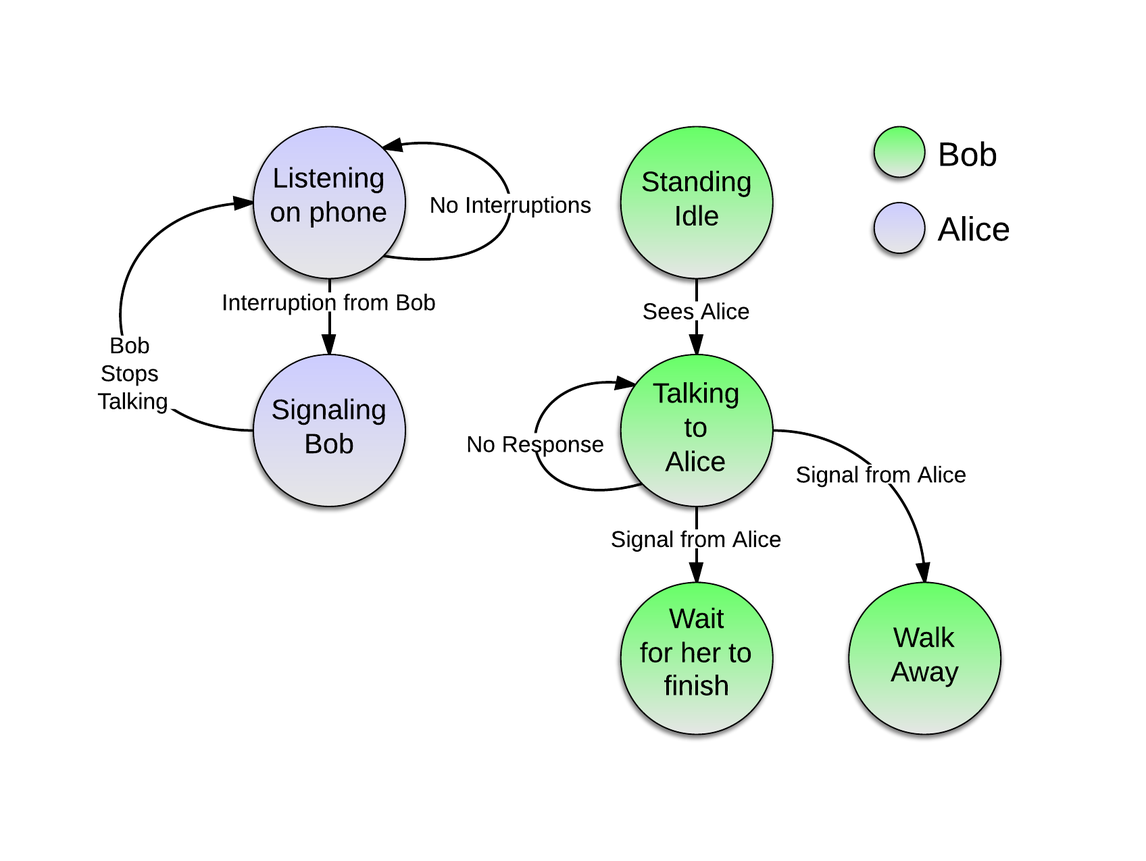
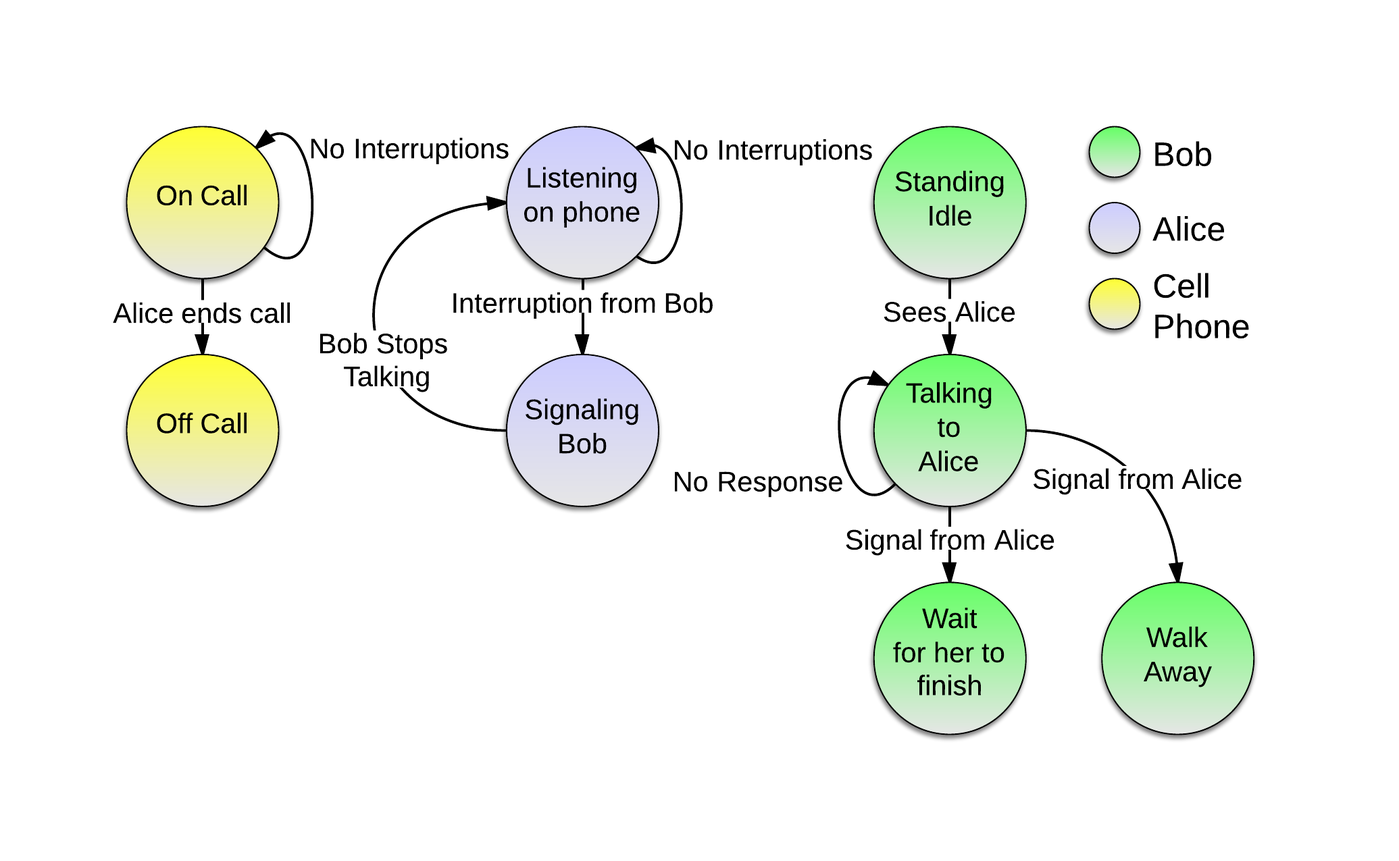
Move changes to workload chapter

Changed region(s): [[0.0625, 0.1224, 0.9062, 0.8565]]

diff --git a/chapter_workload.tex b/chapter_workload.tex
@@ -1,15 +1,14 @@
 \chapter{Workload Metrics} \label{ch:workload}
+The paper presented in chapter 2 was written before the workload concepts and modeling language semantics had settled into their current form.  Jared et al. \cite{FVHMS}, in concert with this work, published a paper in the FVHMS proceedings that expands on the concepts in chapter 2 but is also slightly outdated.  Thus we feel it expedient to summarize those aspects of the language which are critical to our metrics before we present the metrics themselves.  To assist in this effort we have prepared a simple scenario which includes a partial model and illustrations of the DiRG, DiTG, and labeled state transition system.
 
-The paper presented in chapter 2 was written before the workload concepts and modeling language semantics had settled into their current form.  Additionally, Jared et al., in concert with this work, published a paper in the FVHMS proceedings that expands on the concepts in chapter 2 but is also slightly outdated.  Thus we feel it expedient to summarize those aspects of the language which are critical to our metrics before we present the metrics themselves.  To assist in this effort we have prepared a simple scenario which includes a partial model and illustrations of the DiRG, DiTG, and labeled state transition system.
+\section{Example Scenario}
+In this scenario there are two people, Alice and Bob.  Alice is standing next to Bob listening to a friend on her cell phone.  Bob suddenly remembers that he wants to ask Alice out.  Not noticing that Alice is listening to her phone Bob starts to ask Alice on a date.  When this happens Alice looks at Bob and points to her phone, signaling to him that she is on the phone.  Bob stops talking and decides between waiting for her to finish or walking away.  Eventually Bob walks away.
 
-\section{Summary of workload concepts}
-Show the labeled state transition system and talk about how it represents the scenario.
+\subsection{Actors}
+From the scenario above we chose to create three Actors: A) Alice, B) Bob, and C) Cell Phone.  Actors represent any aspect of the system that has state.  An Actor can be anything, in our example we have two humans and a cell phone.  We could also create a sub-Actor which is part of a larger Actor, such as Bob's hair, and give it states like messy or combed.  Actors can also be very abstract or very detailed.  The more states an Actor contains, the more expressive it becomes.
 
-\subsection{Example Scenario}
-
-In this scenario there are two main actors, Alice and Bob.  Alice is standing next to Bob listening to a friend on her cell phone.  Bob suddenly remembers that he wants to ask Alice out.  Not noticing that Alice is listening to her phone Bob starts to ask Alice on a date.  After listening to both her phone and Bob for a minute Alice looks at Bob and points to her phone.  Bob stops talking and decides between waiting for her to finish or walking away.  Eventually Bob walks away.
-
-From the scenario above we chose to create two Actors, Alice and Bob.  Actors represent any aspect of the system that has state.  While in this scenario both our Actors are human, an Actor can be anything.  For example we could add lighting to the scenario and give it a light and a dark state.  We could also create a sub-Actor which is part of a larger Actor, such as Bob's hair, and give it states like messy or combed.  Actors can also be very abstract or very detailed.  The more states an Actor contains, the more expressive it becomes.
+\subsection{DiRG}
+We express an Actor as a Directed Role Graph (DiRG).  A DiRG represents how an Actor is allowed to flow between states.  Figure~\ref{fig:ab_dirg} shows the DiRGs for both Alice and Bob as a state transition system.  We see that Alice is initially in a {\em Listening on phone} state while Bob is in the {\em Standing idle} state.  Alice can either stay in the {\em Listening on phone} state, shown by the looping transition, or move into the {\em Signaling Bob} state.  Once in the {\em Signaling Bob} state her only choice is to stay there forever or to return to the {\em Listening on phone} state.  Individually these DiRGs are of little value, together they begin to express the larger system.  We see from the labels on the DiRG that Alice and Bob are interacting with one another and influencing the transitions of the other.  Before we discuss Actor transitions we must first define the inter-Actor relationship that allows Actors to influence one another.
 
 \begin{figure}[h]
 \begin{center}
@@ -19,12 +18,13 @@ From the scenario above we chose to create two Actors, Alice and Bob.  Actors re
 \end{center}
 \end{figure}
 
-We express an Actor as a Directed Role Graph (DiRG).  A DiRG represents how an Actor is allowed to flow between states.  Figure~\ref{fig:ab_dirg} shows the DiRGs for both Alice and Bob as finite state machines.  We see that Alice is initially in a {\em Listening on phone} state while Bob is in the {\em Standing idle} state.  Alice can either stay in the {\em Listening on phone} state, shown by the looping transition, or move into the {\em Signaling Bob} state.  Once in the {\em Signaling Bob} state her only choice is to stay there forever or to return to the {\em Listening on phone} state.  Individually these DiRGs are of little value, together they begin to express the larger system.  We see from the labels on the DiRG that Alice and Bob are interacting with one another and influencing the transitions of the other.  Before we discuss Actor transitions we must first define the inter-Actor relationship that allows Actors to influence one another.
+\subsection{Channels}
+We define these inter-Actor connections as Channels.  A channel is a uni-directional communication medium which allows an Actor to send information to another Actor.  Each Channel is composed of a source Actor, a target Actor, and a type.  The source Actor sends information as {\em output}, the target Actor receives the information as {\em input}, and the type specifies which communication medium is being used.  In the case of Alice and Bob we use audio, visual, and manual Channels\cite{wickens2002multiple}, the case study in chapter \ref{ch:UASinNAS} also uses a Data channel that represents network communication.  
 
-We define these inter-Actor connections as Channels.  A channel is a uni-directional communication medium which allows an Actor to send information to another Actor.  Each Channel is composed of a source Actor, a target Actor, and a type.  The source Actor sends information as {\em output}, the target Actor receives the information as {\em input}, and the type specifies which communication medium is being used.  In the case of Alice and Bob we use audio and visual Channels\cite{wickens2002multiple}, the case study in chapter \ref{ch:UASinNAS} also uses a Data channel that represents network communication.  We also designate that each Channel can represent multiple layers of communication.  To show this we will use the visual channel from Alice to Bob as an example.  We can express Alices {\em output}, Bobs {\em input}, as two different layers on the visual channel, one for Alices body language, and another for her facial expressions.  This allows us to explicitly set how much data is being sent over the channel, it also allows us to express multiple visual inputs for Bob without creating a {\em channel conflict}.  A {\em channel conflict} occurs when an Actor is receiving input from two or more channels of the same type.  In our example scenario Alice is listening to her phone which uses an audio channel.  At the same time Bob is talking to Alice on a different audio channel.  Because Alice is receiving {\em input} on multiple audio channels she has a channel conflict on her audio channel.  
+We also designate that each Channel can represent multiple layers of communication.  To show this we will use the visual channel from Alice to Bob as an example.  We can express Alice's {\em output}, Bob's {\em input}, as two different layers on the visual channel, one for Alice's body language, and another for her facial expressions.  This allows us to explicitly set how much data is being sent over the channel, it also allows us to express multiple visual inputs for Bob without creating a {\em channel conflict}.  A {\em channel conflict} occurs when an Actor is receiving input from two or more channels of the same type.  In our example scenario Alice is listening to her cell phone which uses an audio channel.  At the same time Bob is talking to Alice on a different audio channel.  Because Alice is receiving {\em input} on multiple audio channels she has an audio channel conflict.  
 
 \subsection{DiTG}
-To express a systems Channels we use a Directed Team Graph (DiTG)\cite{FVHMS}.  The DiTG defines all the channels that exist between the Actors within the system.  Figure \ref{fig:ab_ditg} shows the DiTG for our Alice and Bob scenario.  From the figure we can see that Alice has two channels to Bob, an audio and a visual.  We also see that Bob has two channels to Alice, an audio and a visual.  While the simplicity of this scenario makes it difficult to see the value of the DiTG, by combining the DiTG with the DiRG we have effectively constrained the Actor behavior and communication for the entire system.  With the constraints in place we are ready to define the behavior of the system, which we do with Transitions.
+To express a systems Channels we use a Directed Team Graph (DiTG)\cite{FVHMS}.  The DiTG defines all the channels that exist between the Actors within the system.  Figure \ref{fig:ab_ditg} shows the DiTG for our Alice and Bob scenario.  From the figure we can see that Alice has two channels to Bob, an audio and a visual and an audio channel to her cell phone.  We also see that Bob has two channels to Alice, an audio and a visual.  Lastly, the cell phone has an audio channel to Alice.  While the simplicity of this scenario makes it difficult to see the value of the DiTG, by combining the DiTG with the DiRG we have effectively constrained the Actor behavior and communication for the entire system.  With the constraints in place we are ready to define the behavior of the system, which we do with Transitions.
 
 \begin{figure}[h]
 \begin{center}
@@ -35,51 +35,152 @@ To express a systems Channels we use a Directed Team Graph (DiTG)\cite{FVHMS}.  
 \end{figure}
 
 \subsection{Transitions}
-Transitions represent an Actors behavior.  Transitions tells us about an Actors state, what caused the Actor to change state, and how that change effects the system.  Transitions are composed of a start state, an end state, a set of input equations, a set of outputs, a duration, and a priority.  The Transition start and end states are the states of the Actor and must not violate the DiRG.  The Transition input equations are used to determine if the transition is enabled.  Each equation is composed of a source value, a predicate, and an expected value.  The source value is obtained from one of two sources, Channels or Memory.  Actor memory is an internal variable that allows an Actor to store and retrieve data.  For predicates we use equal to, less than, greater than, etc.  The structure of the input equations allows each equation to evaluate to a simple true or false.  If all input equations evaluate to true then the Transition is enabled.  The Transition outputs contain all output generated by the transition as a set of target value pairs.  The target is the Channel or Memory variable that will receive the designated value.  The Transition duration is a range which represents the minimum and maximum number of time steps that the transition will remain {\em active} before it {\em fires}.  When an Actor decides to transition it selects an enabled transition to become {\em active}.  While a Transition is {\em active} the transition outputs are sent out but the Actor does not change state until the Transition {\em fires}.
+Transitions represent an Actors behavior.  Transitions tells us about an Actors state, what caused the Actor to change state, and how that change effects the system.  Transitions are composed of a start state, an end state, a set of input equations, a set of outputs, a duration, and a priority.  The Transition start and end states are the states of the Actor and must not violate the DiRG.  
 
+The Transition input equations are used to determine if the transition is enabled.  Each equation is composed of a source value, a predicate, and an expected value.  The source value is obtained from one of two sources, Channels or Memory.  Actor memory is an internal variable that allows an Actor to store and retrieve data.  For predicates we use equal to, less than, greater than, etc.  The structure of the input equations allows each equation to evaluate to a simple true or false.  If all input equations evaluate to true then the Transition is enabled.  
 
-
-
-In the case of Alice and Bob, Alice transitions the {\em Listening on phone} state to a {\em Signaling Bob} state.  
-
-\subsection{Input and Output}
-Within the context of our simulations we sometimes refer to channels and inputs/outputs synonymously.  
-
-
-The Directed Team Graph (DiTG) 
-
-
-In this and many other cases a single Actor is of little interest.  What is of more interest is a group of Actors working together.  This is expressed as a Directed Role Graph
-
-For this scenario the first step to building our model is to define our Directed Role Graph (DiRG) and our Directed Team Graph (DiTG).  The DiRG is a collection of finite state machines.
-
-
+The Transition outputs contain all output generated by the transition as a set of target value pairs.  The target is the Channel or Memory variable that will receive the designated value.  The Transition duration is a range which represents the minimum and maximum number of time steps that a transition will remain {\em active} before it {\em fires}.  When an Actor decides to transition it selects an enabled transition to become {\em active}.  While a Transition is {\em active} the transition outputs are sent out but the Actor does not change state until the Transition {\em fires}.  We sometimes refer to inputs and outputs as being {\em active}, this implies that they are coming from an {\em active} Transition.  The final Transition element is priority.  Priority reflects how important a Transition is to the Actor relative to the other Transitions.  If multiple Transitions are enabled the Actor will choose the Transition with the highest priority.
 
 \subsection{Labeled State Transition System}
+The Model Abstraction Framework modeling language allows each of these concepts to be expressed in a model \ref{app:xmlparser}.  The model is then converted to a labeled state transition system that is sent to the simulator for metric collection.  We chose the labeled state transition system because the state transition system lends itself well to model checking while the label allows us to add specific data which relates to workload.  In our case the label translates directly to the transition input equations, outputs, duration, and priority.
+
+\begin{figure}[h]
+\begin{center}
+\includegraphics[width=\textwidth]{ab_lsts.png}
+\caption{Labeled State Transition System for Alice and Bob scenario}
+\label{fig:ab_lsts}
+\end{center}
+\end{figure}
+
+In figure \ref{fig:ab_lsts} we can see that every transition has a label.  These labels are used by the simulator to determine if the transition is enabled, what channels will become {\em active}, and how long those channels should remain {\em active} before the state changes.  To make this clear we will describe $Label_A12$ of Alice's transition from the {\em Listening on phone} state to the {\em Signaling Bob} state.  From figure \ref{fig:ab_lsts} we see that when Bob is speaking to Alice there is an audio channel that is {\em active} (opaque yellow arrow).  The description on the transition implies that Bob's talking has somehow triggered the transition, to represent this in the label we create two input equations.  Audio channel from Bob does not equal null.  And audio channel from Cell Phone does not equal null.  This means that when Alice is listening to her cell phone if she hears Bob at the same time then this transition becomes enabled.  If she chooses to follow the transition then the transition becomes {\em active} and the transition outputs will become active.  In this case the output is a signal on the visual channel from Alice to Bob.  We will make the duration 5 seconds with a priority of 1.  
+
+\subsection{Gathering Metrics}
+Now that we have a basic understanding of the data that the simulator has access to during the simulation we can now discuss how we translate this data into meaningful metrics.  We will first discuss our baseline workload metric.  Afterwards we will describe the two workload metrics we created as part of this work.
 
 
-\subsection{Directed Role Graph}
-What is a Directed Role Graph.  Show the DiRG for Alice and Bob.
-\subsubsection{Actors}
-What is an Actor?  What does it represent?  Actor State?  Set of transitions for each state.  
+\section{Adapted Wickens' Metric}
+Since we are interested in metrics that reveal human workload we have chosen to replicate Wickens' computational model~\cite{wickens2002multiple}, shown in equations ~\ref{eq:resource_demand, eq:resource_conflict, eq:wickens_model}, using data gathered from the Model Abstraction Framework.  While this metric is a measure of resource demand and overlap, its close connection to human workload makes it an ideal baseline to compare against our own metrics.  
 
-\subsubsection{Events}
-What are events? how are they used? intuition?
+Wickens' computational model is based on the concept of tasks, where a task is some arbitrary unit of activity.  Wickens' model calculates the resource interference between two tasks through a resource demand component and a resource conflict component.  To keep the model simple and intuitive the resource demand for a single task was limited to 0-2, where 0 is an automated task and 2 is a difficult task.  Thus the total resource demand for two tasks ranges from 0 to 4.  See equation \ref{eq:resouce_demand}.
 
-\subsubsection{Actor Load}
-What is it? Intuition behind it?  How is it represented? Memory
+\begin{equation}
+  R_{D}(T^{1}, T^{2}) = T_{demand}^{1} + T_{demand}^{2}
+  \label{eq:resource_demand}
+  \caption{Resource Demand}
+\end{equation}
 
-\subsubsection{Transitions}
-What is a transition?  What is an Active transition? Durations.  Input and Output.
+\begin{equation}
+  R_{C}(T^{1}, T^{2}) = \sum_{dimension=1}^{4} \left\{
+    \begin{array}{l l}
+      1 & T_{dimension}^{1} = T_{dimension}^{2} \\
+      0 & otherwise & \\
+    \end{array}
+  \label{eq:resource_conflict}
+  \caption{Resource Conflict}
+\end{equation}
 
-\subsection{Directed Team Graph}
-What is a DiTG.  What are the rules behind it.  Show the DiTG for Alice and Bob.
+For the resource conflict component two tasks are considered to have conflicting resources when they share resources within one of the dimensions illustrated in figure \ref{fig:multipleresourcetheory}.  The resource conflict value is the sum of the total number of dimensional conflicts between two tasks, as there are only four dimensions the resource conflict value will always be between 0 and 4.  See equation \ref{eq:resource_conflict}.  For example if $Task_{A}$ required a person to listen for distinct sounds while $Task_{B}$ required listening to a conversation the resource conflict would be 2.  One in the {\em Stages} dimension for perception, and another in the {\em Modalities} dimension for auditory.  Since one deals with spacial sound and the other verbal sound no resources are shared in the {\em Codes} dimension.  As neither task dealt with visual perception there are no conflicts in the {\em Visual Processing} dimension.
 
-\subsubsection{Channels}
-What is a channel?  Properties of a channel?  Intuition of a channel?  Layers of a channel?  Active vs Inactive.  Input vs Output
+\begin{figure}[h]
+\begin{center}
+\includegraphics[width=6in]{multipleresourcetheory.png}
+\caption{Multiple Resource Theory Dimensions~\cite{wickens2002multiple}}
+\label{fig:multipleresourcetheory}
+\end{center}
+\end{figure}
 
-\subsubsection{Simulator}
-Delta clock?  Get next transition.  Then fire the transition.
+
+
+\begin{equation}
+  W(T_{1}, T_{2}) = R_{D}(T^{1}, T^{2}) + R_{C}(T^{1}, T^{2})
+  \label{eq:wickens_model}
+  \caption{Wickens' computational model}
+\end{equation}
+
+
+
+The difficulty with applying this model to our metrics is that we have removed the concept of tasks and replaced it with the notion of state and inputs.  The Model Abstraction Framework allows us to express tasks and other workload factors as resource, decision, and temporal elements by creating an actor state and modeling input consumption and output generation of that state.  This is beneficial for modeling vague or unknown systems since the modeler can focus on the input and output rather than specific task sets.  Unfortunately this focus on resource, decision, and temporal elements does not distinguish between tasks.  Any tasks are represented solely by an Actor's state, which may represent any number of tasks being performed, preventing a direct mapping from Wickens' model to our own. 
+
+
+\subsection{Determining Task Difficulty}
+In order to generate similar workload metrics as Wickens' model we needed a way to represent task difficulty (resource demand) in a similar fashion.  Using transition duration, the longer a task takes the more difficult it is, does not work because it prevents the modeler from placing an Actor into a long running simple task.  Inputs do not work since the data going over a channel do not always reflect resource demand, shown by a human's ability to tune out certain inputs.  Further examination revealed that we had no way to explicitly define an Actor's resource demand with the Model Abstraction Framework.  Wickens' model allows the modeler to subjectively set the task difficulty from their own experience and intuition.  While it is possible to implicitly define task difficulty from resource, decision, and temporal elements of the model we believe that Wickens' approach, allowing the modeler to subjectively define this value, will be more accurate.  To accomodate this we chose to add this subjective difficulty value to the Model Abstraction Framework under the label of Actor Load.
+
+
+  
+\subsection{Actor Load}
+Actor Load represents an abstraction of the load an Actor is under while in a specific state.  Similar to Wickens' model, we have abstracted the Actor Load into an integer value ranging from 0-4.  An Actor Load of 0 represents little to no load on the actor.  These are automated or transitional states where the Actor is idle or has minimal contact with the system.  An Actor Load of 4 represents simultaneously performing multiple high difficulty tasks.  These are states where an Actor is pushed to the limit of their cognitive capabilities. Any value between 0 and 4 is some combination of task difficulty and the number of tasks being performed.  Actor Load is subjectively assigned to an Actors' state by the modeler.
+
+\subsection{Determining Dimensional Conflicts}
+To calculate the dimensionality of resource conflicts we need a way to determine when multiple tasks are being performed.  Since the Model Abstraction Framework does not define specific tasks we must find another method to approximate when multiple tasks are being performed.  We accomplish this by making the assumption that if an Actor has input from multiple sources then multiple tasks are being performed.
+
+
+
+With this assumption we are ready to calculate dimensional conflicts as illustrated in Figure~\ref{fig:multipleresourcetheory}.
+For the Stage dimension (perception, cognition, response) we check to see if there are multiple sources of input or multiple targets for output.  If there are then we increment the dimensionality as shown in equation~\ref{eq:stage_dimension}.  
+
+For the Modality dimension (Audio, Visual) we check if there is more than a single active channel, input or output, of type audio or visual.  If there is then we increment the dimensionality as shown in equation~\ref{eq:modality_dimension}.
+
+For the Focus dimension we check if there is more than one target for manual outputs, if there are then we increment the dimensionality as shown in equation~\ref{eq:focus_dimension}.  We do not check inputs as we have no way of distinguishing if a visual channel has focus.  This may need to be addressed in future work. 
+
+For the Codes dimension (Spatial, Verbal) we check that the total number of audio inputs and outputs is greater than 1 or that the total number of visual inputs, visual outputs, and manual outputs is greater than 1.  If either value is greater than 1 then we increment the dimensionality as shown in equation~\ref{eq:codes_dimension}.
+
+
+\begin{equation}
+D_{S}(Inputs, Outputs) = \left\{ 
+  \begin{array}{l l}
+    1, Inputs_{Sources} > 1 & \quad \text{Multiple Input Sources}\\
+    1, Outputs_{Targets} > 1 & \quad \text{Multiple Output Targets}\\
+    0, otherwise
+  \end{array}
+  \right.
+  \label{eq:stage_dimension}
+\end{equation}
+
+\begin{equation}
+D_{M}(Inputs, Outputs) = \left\{ 
+  \begin{array}{l l}
+    1, Inputs_{Active}^{Audio/Visual} > 1 & \quad \text{Multiple Active Inputs}\\
+    1, Outputs_{Active}^{Audio/Visual} > 1 & \quad \text{Multiple Active Outputs}\\
+    0, otherwise
+  \end{array}
+  \right.
+  \label{eq:modality_dimension}
+\end{equation}
+
+\begin{equation}
+D_{F}(Outputs) = \left\{ 
+  \begin{array}{l l}
+    1, Outputs_{Target}^{Manual} > 1 & \quad \text{Multiple Manual Output Targets}\\
+    0, otherwise
+  \end{array}
+  \right.
+  \label{eq:focus_dimension}
+\end{equation}
+
+\begin{equation}
+D_{C}(Inputs, Outputs) = \left\{ 
+  \begin{array}{l l}
+    1, Inputs^{Audio} + Outputs^{Audio} > 1\\
+    1, Inputs^{Visual/Manual} + Outputs^{Visual/Manual} > 1\\
+    0, otherwise
+  \end{array}
+  \right.
+  \label{eq:codes_dimension}
+\end{equation}
+
+
+\subsection{Adapted Wickens' Model}
+Using the adaptations mentioned in this section we are able to replicate Wickens' model within the Model Abstraction Framework by summing the Actor Load with the dimensional conflict values.  Equation~\ref{eq:adapted_wickens_model}.  As the model values are calculated differently than Wickens' model we will refer to this model as an adapted Wickens' model.  We propose to use this adapted Wickens' model as a baseline comparison for our metrics since the core elements of the adapted Wickens' model are fundamentally the same as those in the original.  
+
+\begin{equation}
+W(ActorLoad, D_{S}, D_{M}, D_{F}, D_{C}) = \left\{ 
+  \begin{array}{l l}
+    ActorLoad \in \{0,1,2,3,4\}\\
+    ActorLoad + D_{S} + D_{M} + D_{F} + D_{C}
+  \end{array}
+  \right.
+  \label{eq:adapted_wickens_model}
+\end{equation}
 
 \section{Resource Workload}
 Describe what it is, point reader towards FVHMS paper.  Present the metric itself with the equation.
@@ -89,5 +190,3 @@ Intuition behind it?
 Describe what decision workload is, point reader towards FVHMS paper.  Present the metric itself with the equation.
 Intuition behind it?
 
-\section{Adapted Wickens' Metric}
-Reason for creating it, intuition.  What it is (copy paste).

diff --git a/thesis.tex b/thesis.tex
@@ -276,6 +276,7 @@ Unmanned aerial systems (UASs) often require multiple human operators fulfilling
 
 \input{chapter_introduction.tex}
 \input{chapter_paper1.tex}
+\input{chapter_workload.tex}
 %\input{chapter_paper2.tex}
 %\input{chapter_xml_parser.tex}
 %\input{chapter_metrics.tex}
